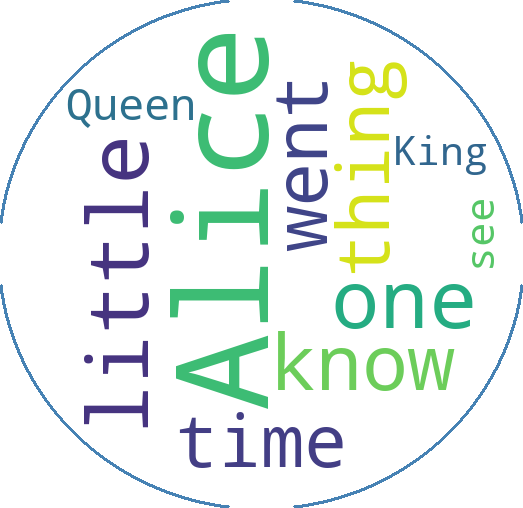
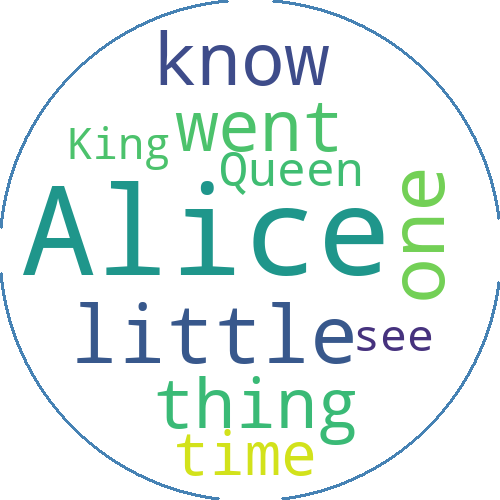
Add the WordCloud library but it didn't work

diff --git a/src/tasks/cluster_texts.py b/src/tasks/cluster_texts.py
@@ -1,3 +1,5 @@
+from math import radians
+from typing import Any
 from uuid import uuid4
 from copy import copy, deepcopy
 import numpy as np
@@ -6,6 +8,7 @@ from sklearn.manifold import TSNE
 from sklearn.cluster import AffinityPropagation
 from dataclasses import dataclass, asdict
 from wordcloud import WordCloud
+import random
 
 from lib.logger import logger
 from lib.nlp import get_pruned_stem
@@ -30,7 +33,11 @@ class TextDraw:
     text: str
     x: float
     y: float
+    dx: float = 0  # delta x from the center. The front end scaling for this would be different from x
+    dy: float = 0
     font_size: float = 14
+    orientation: Any = None
+    colors_rgb: list = 0
     d3uuid: str = None
 
 
@@ -39,7 +46,7 @@ class KeywordItem:
     word: str
     count: int
     relevance_score: float
-    kwd3uuid: str = None
+    kwd3uuid: str = None  # Kewyword uuid for D3 plot
     draw: TextDraw = None
     parent: TextDraw = None
 
@@ -417,8 +424,8 @@ def _group_keywords_by_count(keywords):
 def _group_stemmed_keywords_by_counts(keywords):
     keywords = deepcopy(keywords)
     for item in keywords:
-        item.word = get_pruned_stem(item.word)
         item.draw.text = item.word
+        item.word = get_pruned_stem(item.word)
     return _group_keywords_by_count(keywords)
 
 
@@ -437,7 +444,7 @@ def insert_and_return_keywords(head):
             word = head['tokens'][0]['token']
             keywords = [
                 KeywordItem(
-                    word=word,
+                    word=get_pruned_stem(word),
                     count=1,
                     relevance_score=head['tokens'][0]['similarity'],
                     kwd3uuid = str(uuid4()),
@@ -467,23 +474,66 @@ def insert_wordcloud_draw_properties(head):
             kw_dict = {}
             for kw in current['keywords']:
                 kw_dict[kw.word] = kw
-                words.extend([kw.word] * kw.count)
+                words.extend([kw.word] * kw.count * round(10 * kw.relevance_score))
             words_str = ' '.join(words)
-            default_low_dim_xy = (100, 100)
-            default_radius = 100
+            # default_low_dim_xy = (100, 100)
+            # default_radius = 100
             center_x = float(current['low_dim_embedding'][0])
             center_y = float(current['low_dim_embedding'][1])
-            width = int( 20 * current['radius'] )
-            height = int( 20 * current['radius'] )
-            # wc = WordCloud(width=width, height=height).generate(words_str)
-            # layout = wc.layout_  # ( ('word', frequency), font_sizes, (pos_x, pos_y), orientations, colors_rgb) )
-            # for wc_item in layout:
-            #     wc_word = wc_item[0][0].split(' ')[0]
-            #     kw_dict[wc_word].draw.x = center_x - width / 2 + wc_item[2][0]  # x
-            #     kw_dict[wc_word].draw.y =  center_y + height / 2 - wc_item[2][1]  # y
-            for kw in current['keywords']:
-                kw.draw.x = center_x
-                kw.draw.y = center_y
+            radius = round( current['radius'] )
+            # height = round( current['radius'] )
+            try:
+                raise
+                """
+                This throws: 
+                    ValueError: Couldn't find space to draw. Either the Canvas size
+                                is too small or too much of the image is masked out.
+                """
+                # import os
+                # from PIL import Image
+                # files_directory = "/code/notebook/WordCloud"
+                # alice_mask = np.array(Image.open(os.path.join(files_directory, "alice_mask.png")))
+                
+                # Building a mask in the shape of a circle
+                mask_radius = 250
+                alice_mask = np.ones([2 * mask_radius, 2 * mask_radius, 4])
+                for row in range(2 * mask_radius):
+                    for col in range(2 * mask_radius):
+                        for color in range(4):
+                            x = row - mask_radius
+                            y = col - mask_radius
+                            if x ** 2 + y ** 2 > mask_radius ** 2:
+                                alice_mask[row][col] = [255, 255, 255, 255]
+
+
+                wc = WordCloud(
+                    background_color="white",
+                    max_words=100,
+                    mask=alice_mask,
+                    contour_width=3,
+                    contour_color='steelblue'
+                )
+                scale = radius / mask_radius
+                layout = wc.generate(words_str).layout_  # ( ('word', frequency), font_sizes, (pos_x, pos_y), orientations, colors_rgb) )
+                for wc_item in layout:
+                    wc_word = wc_item[0][0].split(' ')[0]
+                    kw_dict[wc_word].draw.x = center_x
+                    kw_dict[wc_word].draw.dx = - radius + scale * wc_item[2][0]  # x
+                    kw_dict[wc_word].draw.y = center_y
+                    kw_dict[wc_word].draw.dy = - radius + scale * wc_item[2][1]  # y
+                    kw_dict[wc_word].draw.font_size = wc_item[1]
+                    kw_dict[wc_word].draw.orientation = wc_item[3]
+                    clr = wc_item[4]
+                    kw_dict[wc_word].draw.colors_rgb = list(map(int, [c.strip() for c in clr[4:-1].split(',')])) 
+            except Exception as e:
+                logger.exception(e)
+                for kw in current['keywords']:
+                    kw.draw.x = center_x
+                    kw.draw.dx = radius * random.gauss(0, 0.2) 
+                    kw.draw.y = center_y
+                    kw.draw.dy = radius * random.gauss(0, 0.35)
+                    import math
+                    kw.draw.font_size = 10 * math.log(kw.count * round(10 * kw.relevance_score))
 
         frontiers.extend(current.get('children', []))
 
@@ -507,18 +557,20 @@ def insert_keywords_parents_info(head):
         return
     frontiers = [head]
     while frontiers:
-        next = frontiers.pop(0)
-        for child in next.get('children', []):
+        current = frontiers.pop(0)
+        children = current.get('children', [])
+        frontiers.extend(children)
+
+        for child in children:
             for kw in child['keywords']:
                 kw.parent = None
                 if child['parent']['low_dim_embedding'] is not None:  # If the parent is present 
                     # find the keword in the parent's set of keyword
-                    for parent_kw in next['keywords']:
-                        if get_pruned_stem(kw.word) == parent_kw.word:
+                    for parent_kw in current['keywords']:
+                        if kw.word == parent_kw.word:
                             kw.parent = parent_kw
                             break
 
-        frontiers.extend(next.get('children', []))
 
 
 def prune_keywords(head):

diff --git a/tests/tasks/test_clusterer.py b/tests/tasks/test_clusterer.py
@@ -202,8 +202,9 @@ def test_cluster_hierarchically_add_meta_data(low_dim_embedding):
     res = clusterer.cluster_hierarchically_add_meta_data("-", low_dim_embedding)
     import pprint, json
     pp = pprint.PrettyPrinter().pprint
-    breakpoint()
     # pp(res)
+    breakpoint()
+
     with open("_temp.txt", "w") as f:
         f.write(json.dumps(res, indent=4))
 

diff --git a/src/consumers/task.py b/src/consumers/task.py
@@ -76,7 +76,7 @@ def main():
     from lib import nlp
     with open(k8s_readiness_probe_file, 'w') as f:
         f.write('🍌 I am healthy 🥑')
-    logger.info("✅ NLP models are loaded")
+    logger.info("✅ NLP models are loaded.")
 
     logger.info("⌛ Connecting to the message broker...")
     mb = MessageBroker(

diff --git a/src/lib/nlp.py b/src/lib/nlp.py
@@ -6,6 +6,7 @@ https://datascience.stackexchange.com/questions/17294/nlp-what-are-some-popular-
 """
 
 import re
+import os
 import nltk
 
 from lib.logger import logger
